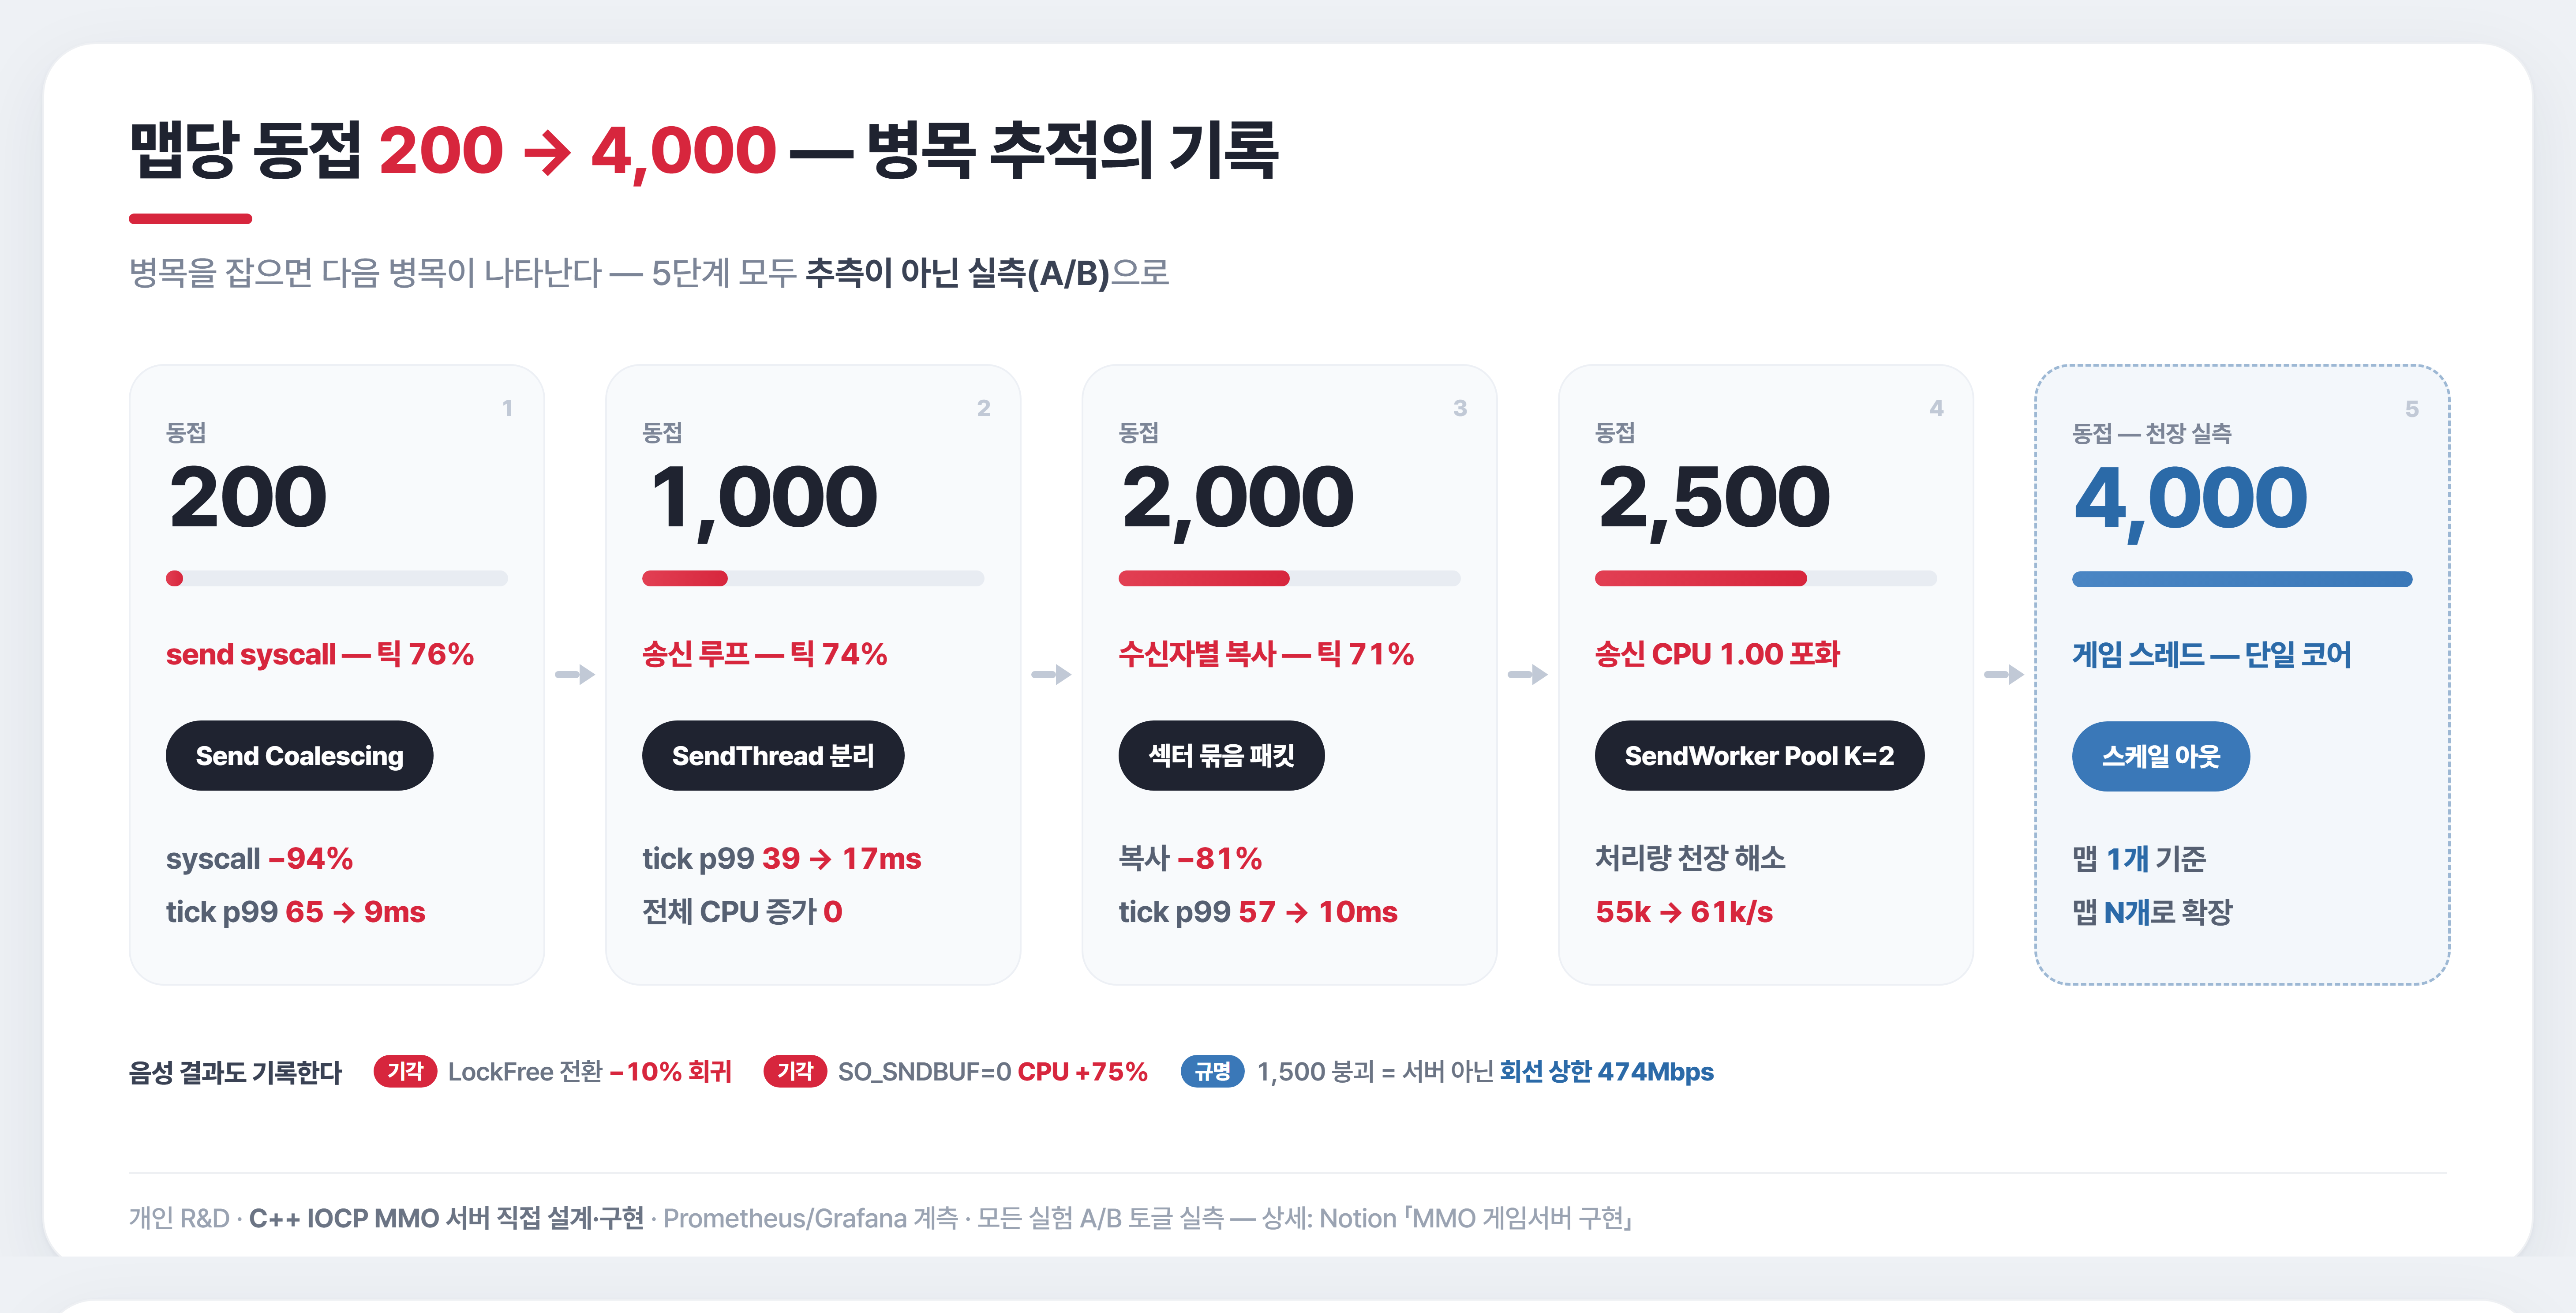
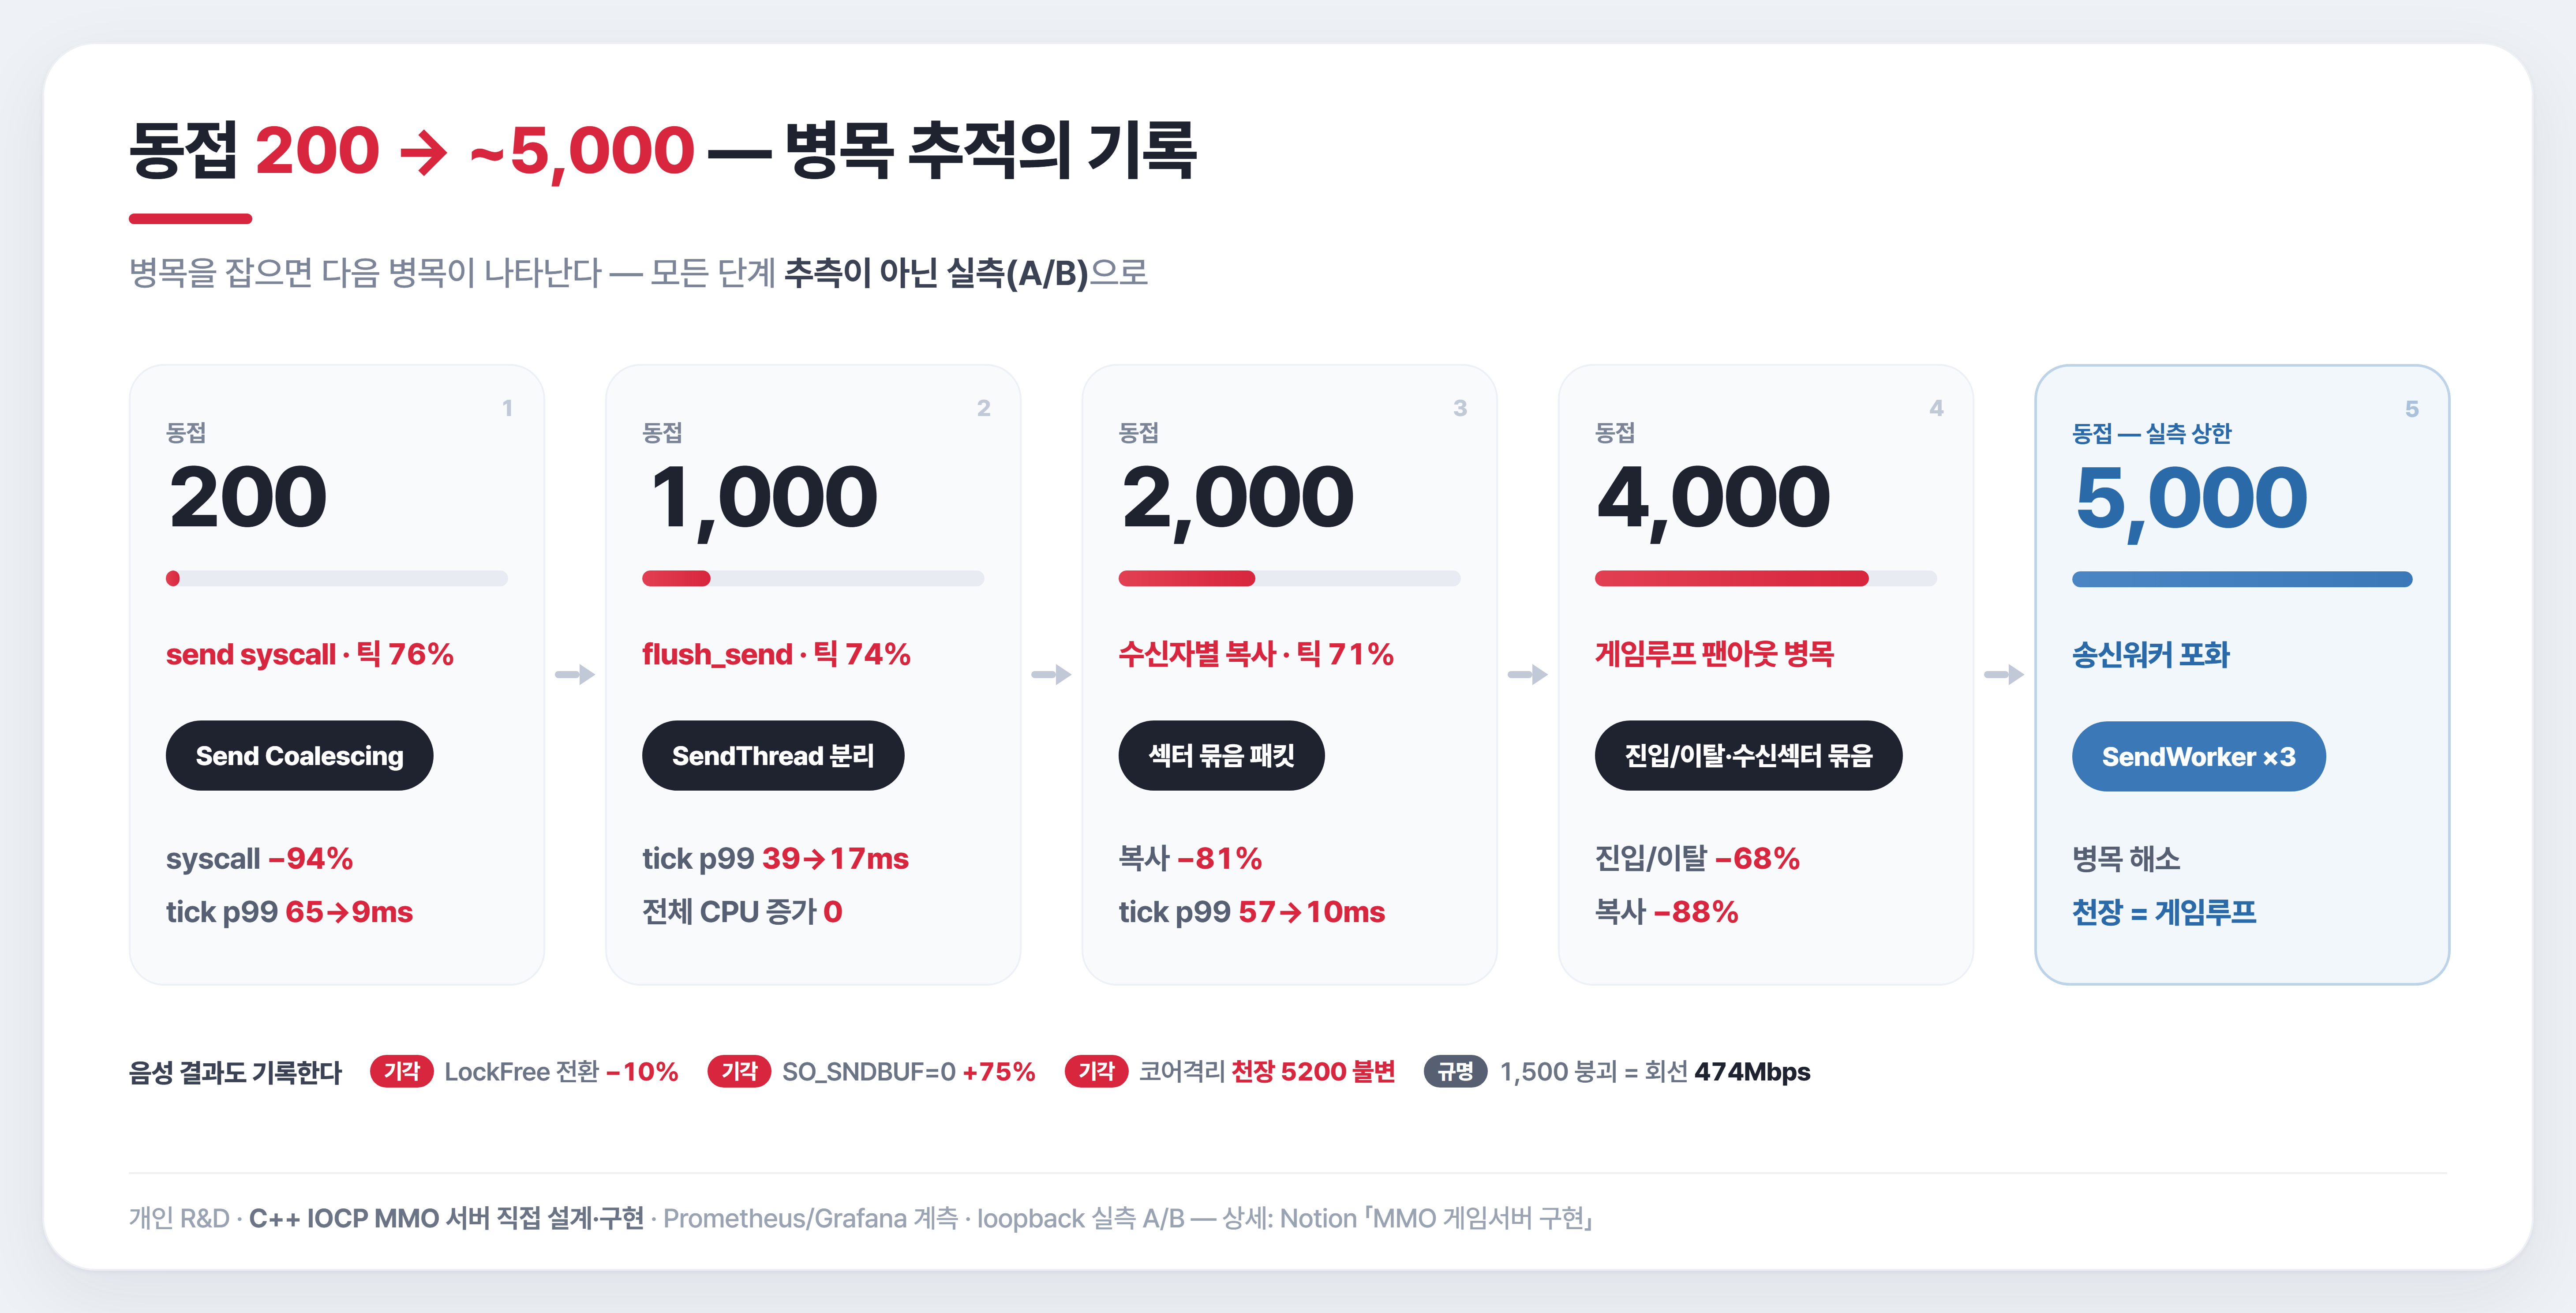
대문 갱신: 병목 추적 인포그래픽 천장 ~5,000 반영, README 링크 프로필 정리

diff --git a/README.md b/README.md
@@ -1,13 +1,15 @@
 # MMO Game Server
 
-[![맵당 동접 200 → 4,000 — 병목 추적의 기록](docs/bottleneck_chronicle.png)](https://cocoz93.github.io/portfolio/)
+[![동접 200 → ~5,000 — 병목 추적의 기록](docs/bottleneck_chronicle.png)](https://cocoz93.github.io/portfolio/)
 
-**Windows IOCP 기반 C++ MMO 게임서버** — 맵당 동접 **200 → 4,000**까지 병목을 단계별로 추적·해소한 개인 성능 R&D 프로젝트입니다.
+**Windows IOCP 기반 C++ MMO 게임서버** — 동접 **200 → ~5,000**까지 병목을 단계별로 추적·해소한 개인 성능 R&D 프로젝트입니다.
 모든 최적화는 추측이 아니라 **A/B 실측**(Prometheus·Grafana 계측)으로 검증했습니다.
 
 ## 🔗 링크
-- **소개 페이지** — https://cocoz93.github.io/portfolio/
-- **상세 기술 문서** — [Notion 「MMO 게임서버 구현」](https://app.notion.com/p/MMO-33616a0b9f5980e5a220c3e1928c2fe5)
+- 🌐 **WEB PROFILE** — https://cocoz93.github.io/portfolio/
+- 📝 **DEV LOG 26** — [Notion 블로그 전체](https://app.notion.com/p/2db16a0b9f598196a471d53775ab4223)
+- 📧 **Email** — [email redacted]
+- 🐙 **GitHub** — https://github.com/cocoz93/MMOServer
 
 ## 🛠 기술 스택
 C++17 · Windows IOCP · WinSock · Prometheus · Grafana